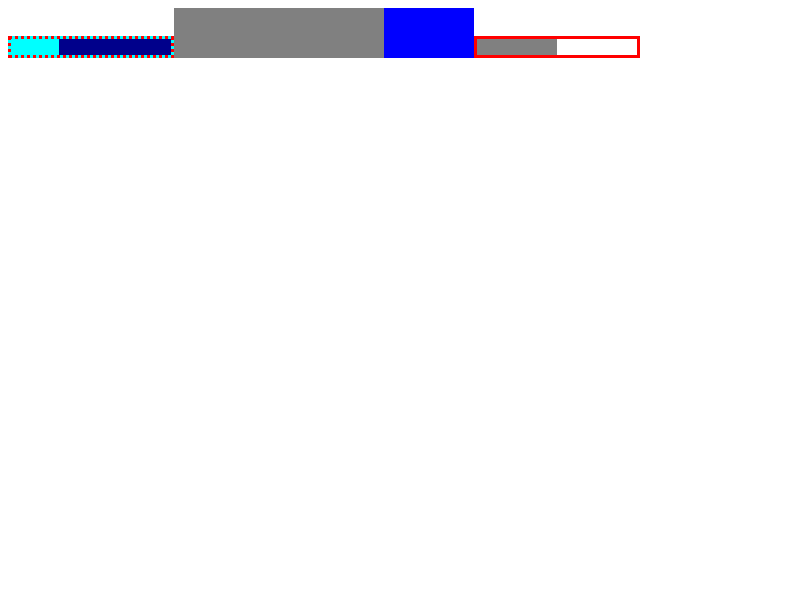
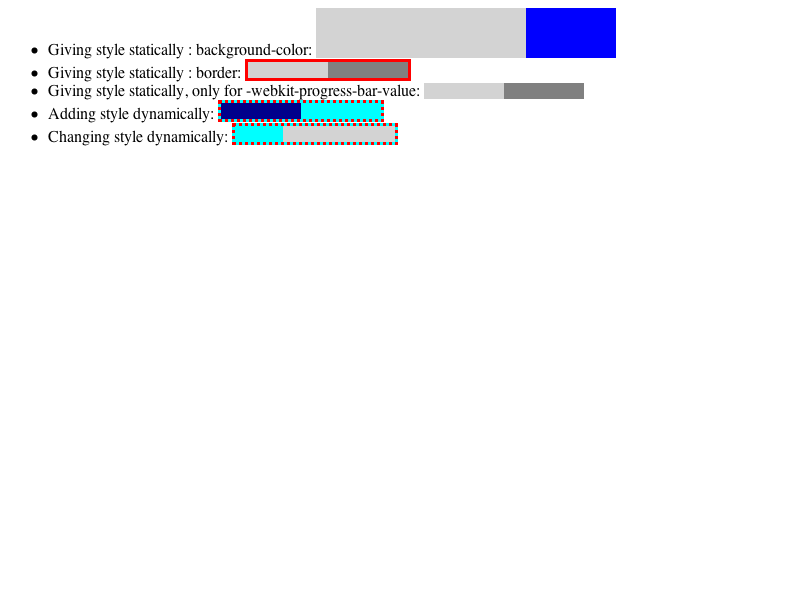
2010-06-22  MORITA Hajime  <morrita@google.com>
Reviewed by Kent Tamura.

        <progress> should be styled with -webkit-progress-bar-value
        https://bugs.webkit.org/show_bug.cgi?id=40823

        Added cases for various style combinations, and explanations for
        that cases.

        * fast/dom/HTMLProgressElement/progress-bar-value-pseudo-element.html:
        * platform/mac/fast/dom/HTMLProgressElement/progress-bar-value-pseudo-element-expected.checksum:
        * platform/mac/fast/dom/HTMLProgressElement/progress-bar-value-pseudo-element-expected.png:
        * platform/mac/fast/dom/HTMLProgressElement/progress-bar-value-pseudo-element-expected.txt:
        * platform/qt/Skipped:
2010-06-22  MORITA Hajime  <morrita@google.com>

        Reviewed by Kent Tamura.

        <progress> should be styled with -webkit-progress-bar-value
        https://bugs.webkit.org/show_bug.cgi?id=40823

        Fixed to peek styles of the shadow node pseudo class to fallback
        to non-styled painting.

        * css/html.css:
        (progress): Added defaul background-color.
        (progress::-webkit-progress-bar-value): Added defaul background-color.
        * rendering/RenderProgress.cpp:
        (WebCore::RenderProgress::shouldHaveParts):
        (WebCore::RenderProgress::updatePartsState):

        Test: fast/dom/HTMLProgressElement/progress-bar-value-pseudo-element.html

Identifier: 52973@main
git-svn-id: https://svn.webkit.org/repository/webkit/trunk@61993 268f45cc-cd09-0410-ab3c-d52691b4dbfc

Changed region(s): [[0.0, 0.0, 0.8125, 0.24]]

diff --git a/LayoutTests/fast/dom/HTMLProgressElement/progress-bar-value-pseudo-element.html b/LayoutTests/fast/dom/HTMLProgressElement/progress-bar-value-pseudo-element.html
@@ -1,13 +1,38 @@
 <html>
 <head><script>
 window.onload = function() {
-    document.getElementById("p").setAttribute("style", "-webkit-appearance:none; border:3px red dotted; background-color:cyan;")
+    document.getElementById("toChangeStyle").setAttribute("style", "border:3px red dotted; background-color:cyan;");
+    document.getElementById("toAddStyle").setAttribute("style", "border:3px red dotted; background-color:cyan;");
 }
 </script>
 <style>
-::-webkit-progress-bar-value {background-color:gray;}
-#p::-webkit-progress-bar-value {background-color:darkblue;}
+.styled::-webkit-progress-bar-value {background-color: lightgray;}
+#toAddStyle::-webkit-progress-bar-value {background-color:darkblue;}
+.no-appearance {-webkit-appearance: none;}
 </style>
 </head>
-<body><progress max=100 value=70 dir="rtl" id="p"></progress><progress max=100 value=70 style="-webkit-appearance:none; width:300px; height:50px; background-color:blue; " ></progress><progress style="border:3px solid red;" value=0.5></progress></body>
+<body>
+  <ul>
+    <li>
+      Giving style statically : background-color: 
+      <progress class="styled" max=100 value=70 style="width:300px; height:50px; background-color:blue; " >
+    </li>
+    <li>
+      Giving style statically : border:
+      <progress class="styled" style="border:3px solid red;" value=0.5>
+    </li>
+    <li>
+      Giving style statically, only for -webkit-progress-bar-value:
+      <progress class="styled" value=0.5></progress>
+    </li>
+    <li>
+      Adding style dynamically:
+      <progress value=0.5 id="toAddStyle"></progress>
+    </li>
+    <li>
+      Changing style dynamically:
+      <progress class="styled" max=100 value=70 dir="rtl" id="toChangeStyle"></progress>
+    </li>
+  </ul>
+</body>
 </html>

diff --git a/WebCore/css/html.css b/WebCore/css/html.css
@@ -584,10 +584,12 @@ progress {
     height: 1em;
     width: 10em;
     vertical-align: -0.2em;
+    background-color: gray;
 }
 
-progress::-webkit-progress-bar {
+progress::-webkit-progress-bar-value {
     -webkit-appearance: progress-bar;
+    background-color: green;
 }
 
 /* datagrid */

diff --git a/WebCore/rendering/RenderProgress.cpp b/WebCore/rendering/RenderProgress.cpp
@@ -98,12 +98,17 @@ void RenderProgress::layoutParts()
 
 bool RenderProgress::shouldHaveParts() const
 {
-    return !style()->hasAppearance();
+    if (!style()->hasAppearance())
+        return true;
+    if (ShadowBlockElement::partShouldHaveStyle(this, PROGRESS_BAR_VALUE))
+        return true;
+    return false;
 }
 
 void RenderProgress::updatePartsState()
 {
     if (shouldHaveParts() && !m_valuePart) {
+        style()->setAppearance(NoControlPart);
         m_valuePart = ShadowBlockElement::createForPart(this->node(), PROGRESS_BAR_VALUE);
         addChild(m_valuePart->renderer());
     } else if (!shouldHaveParts() && m_valuePart) {
